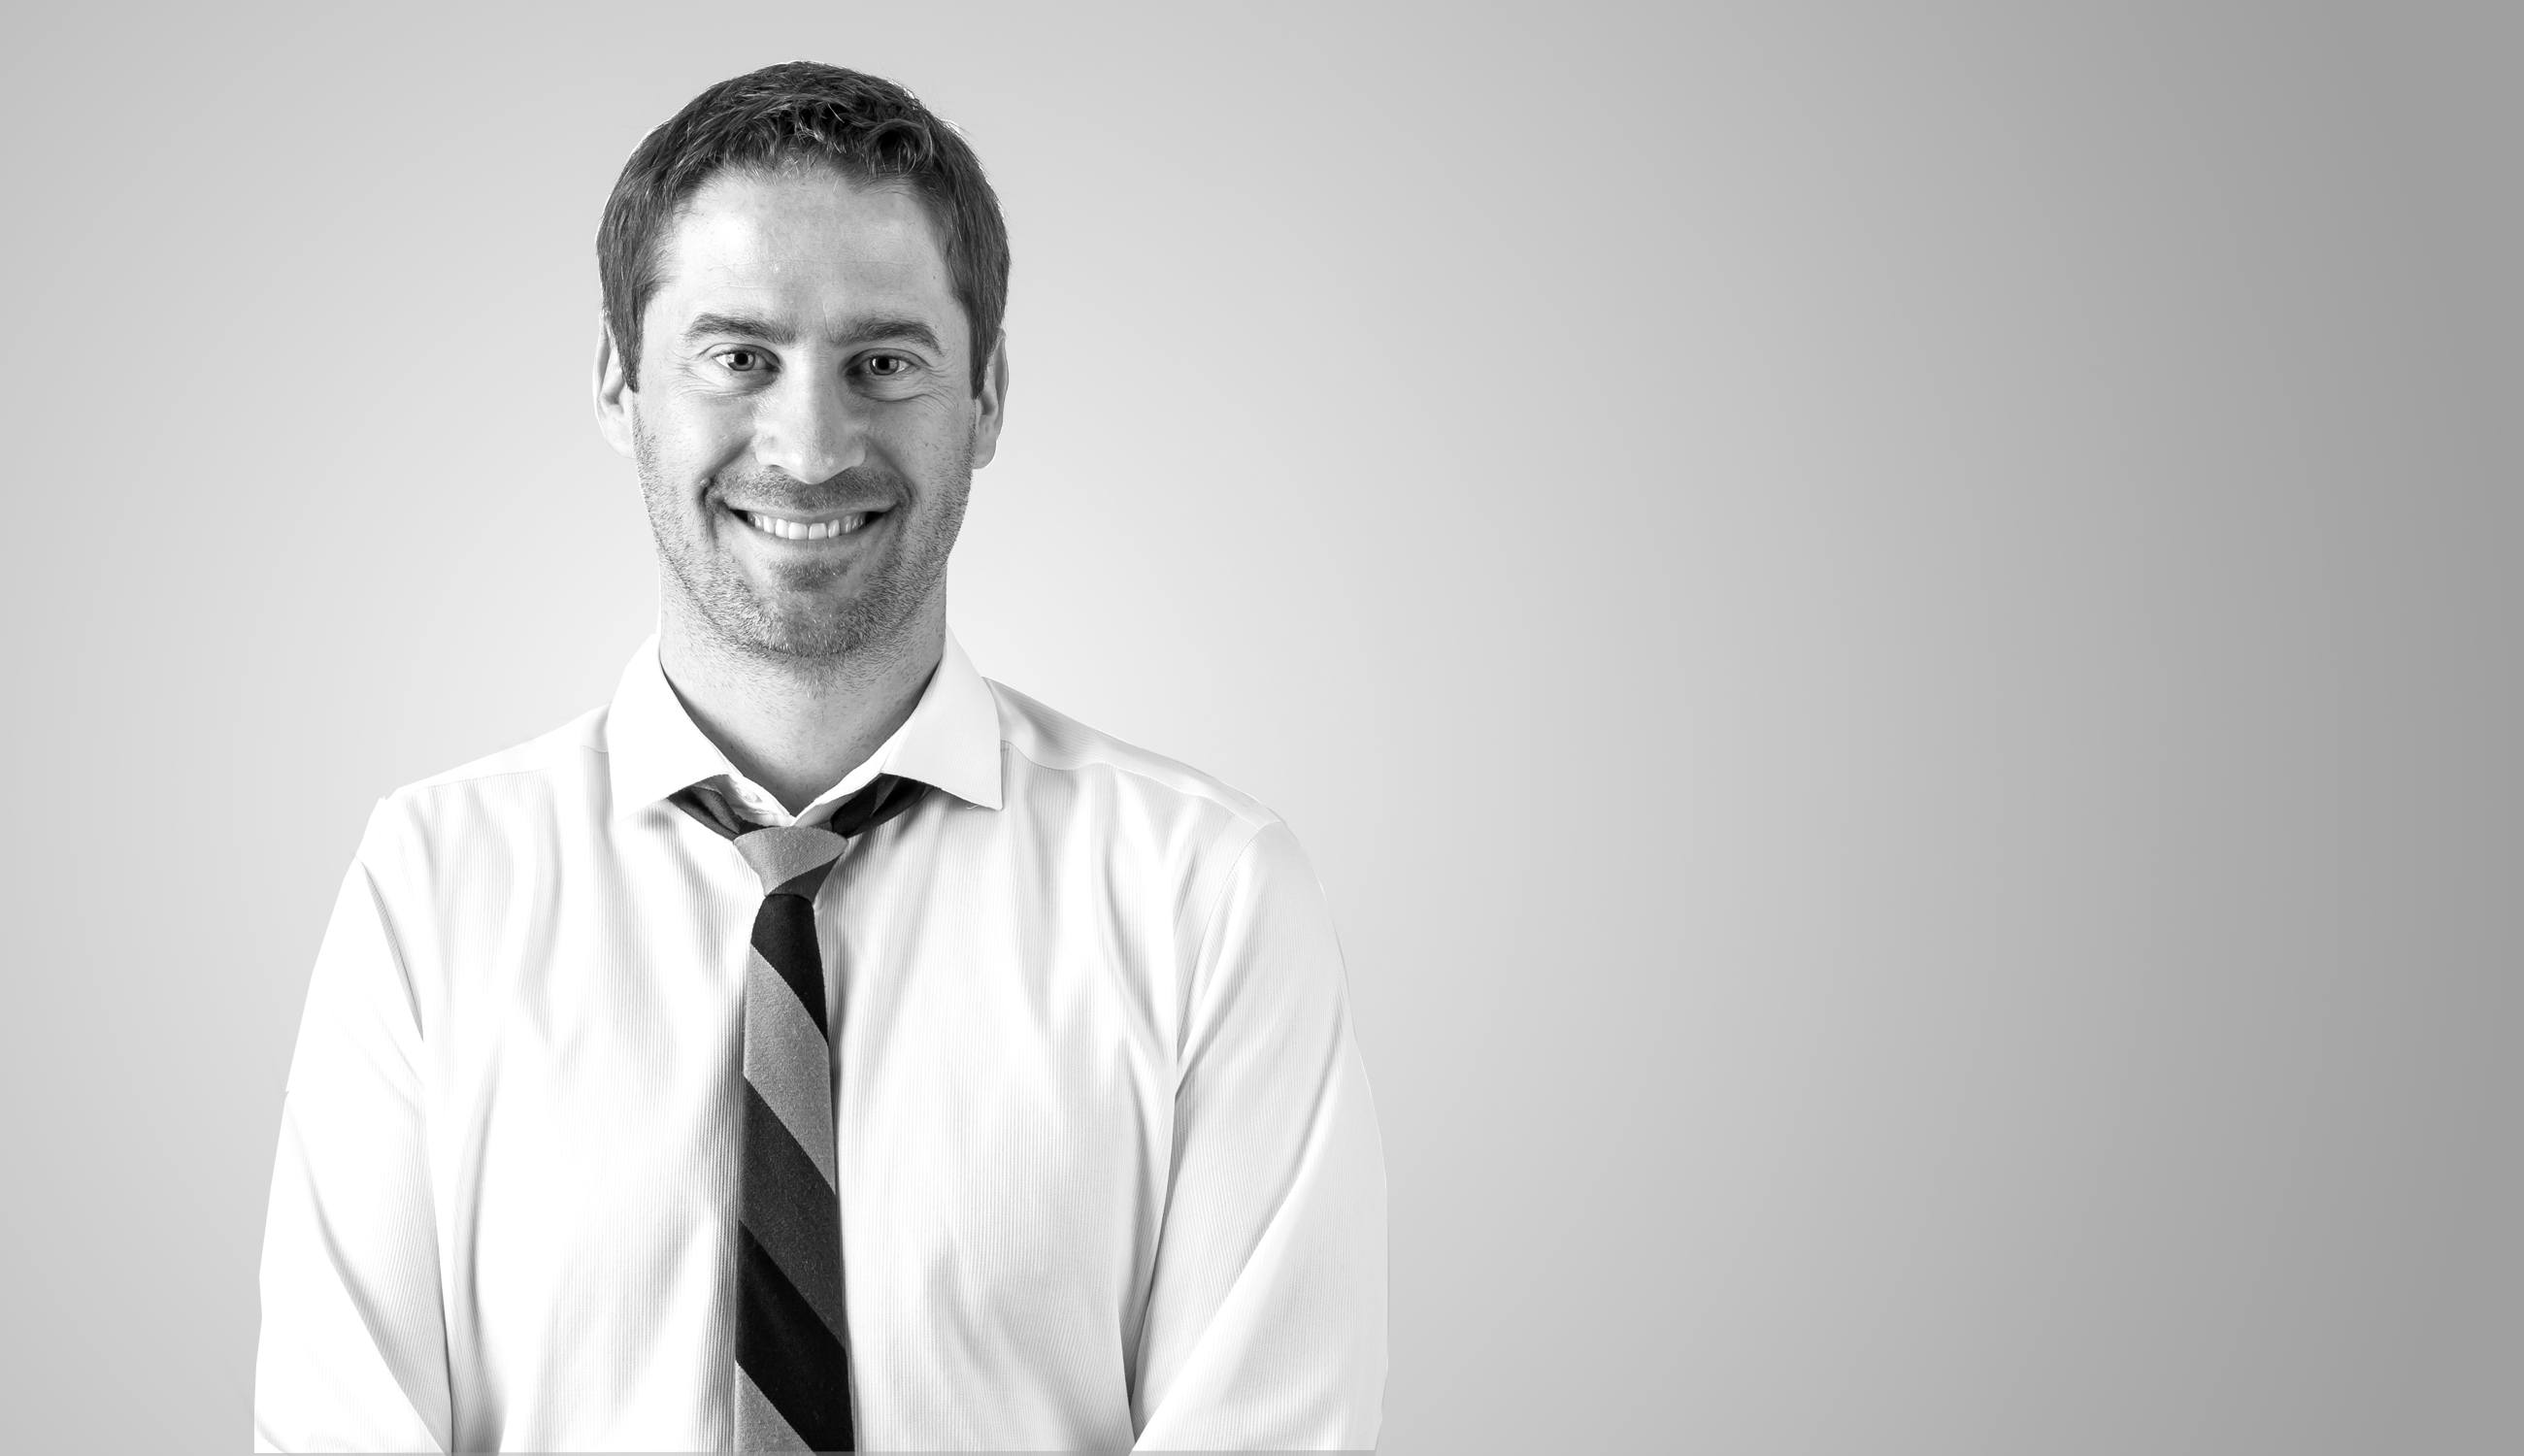
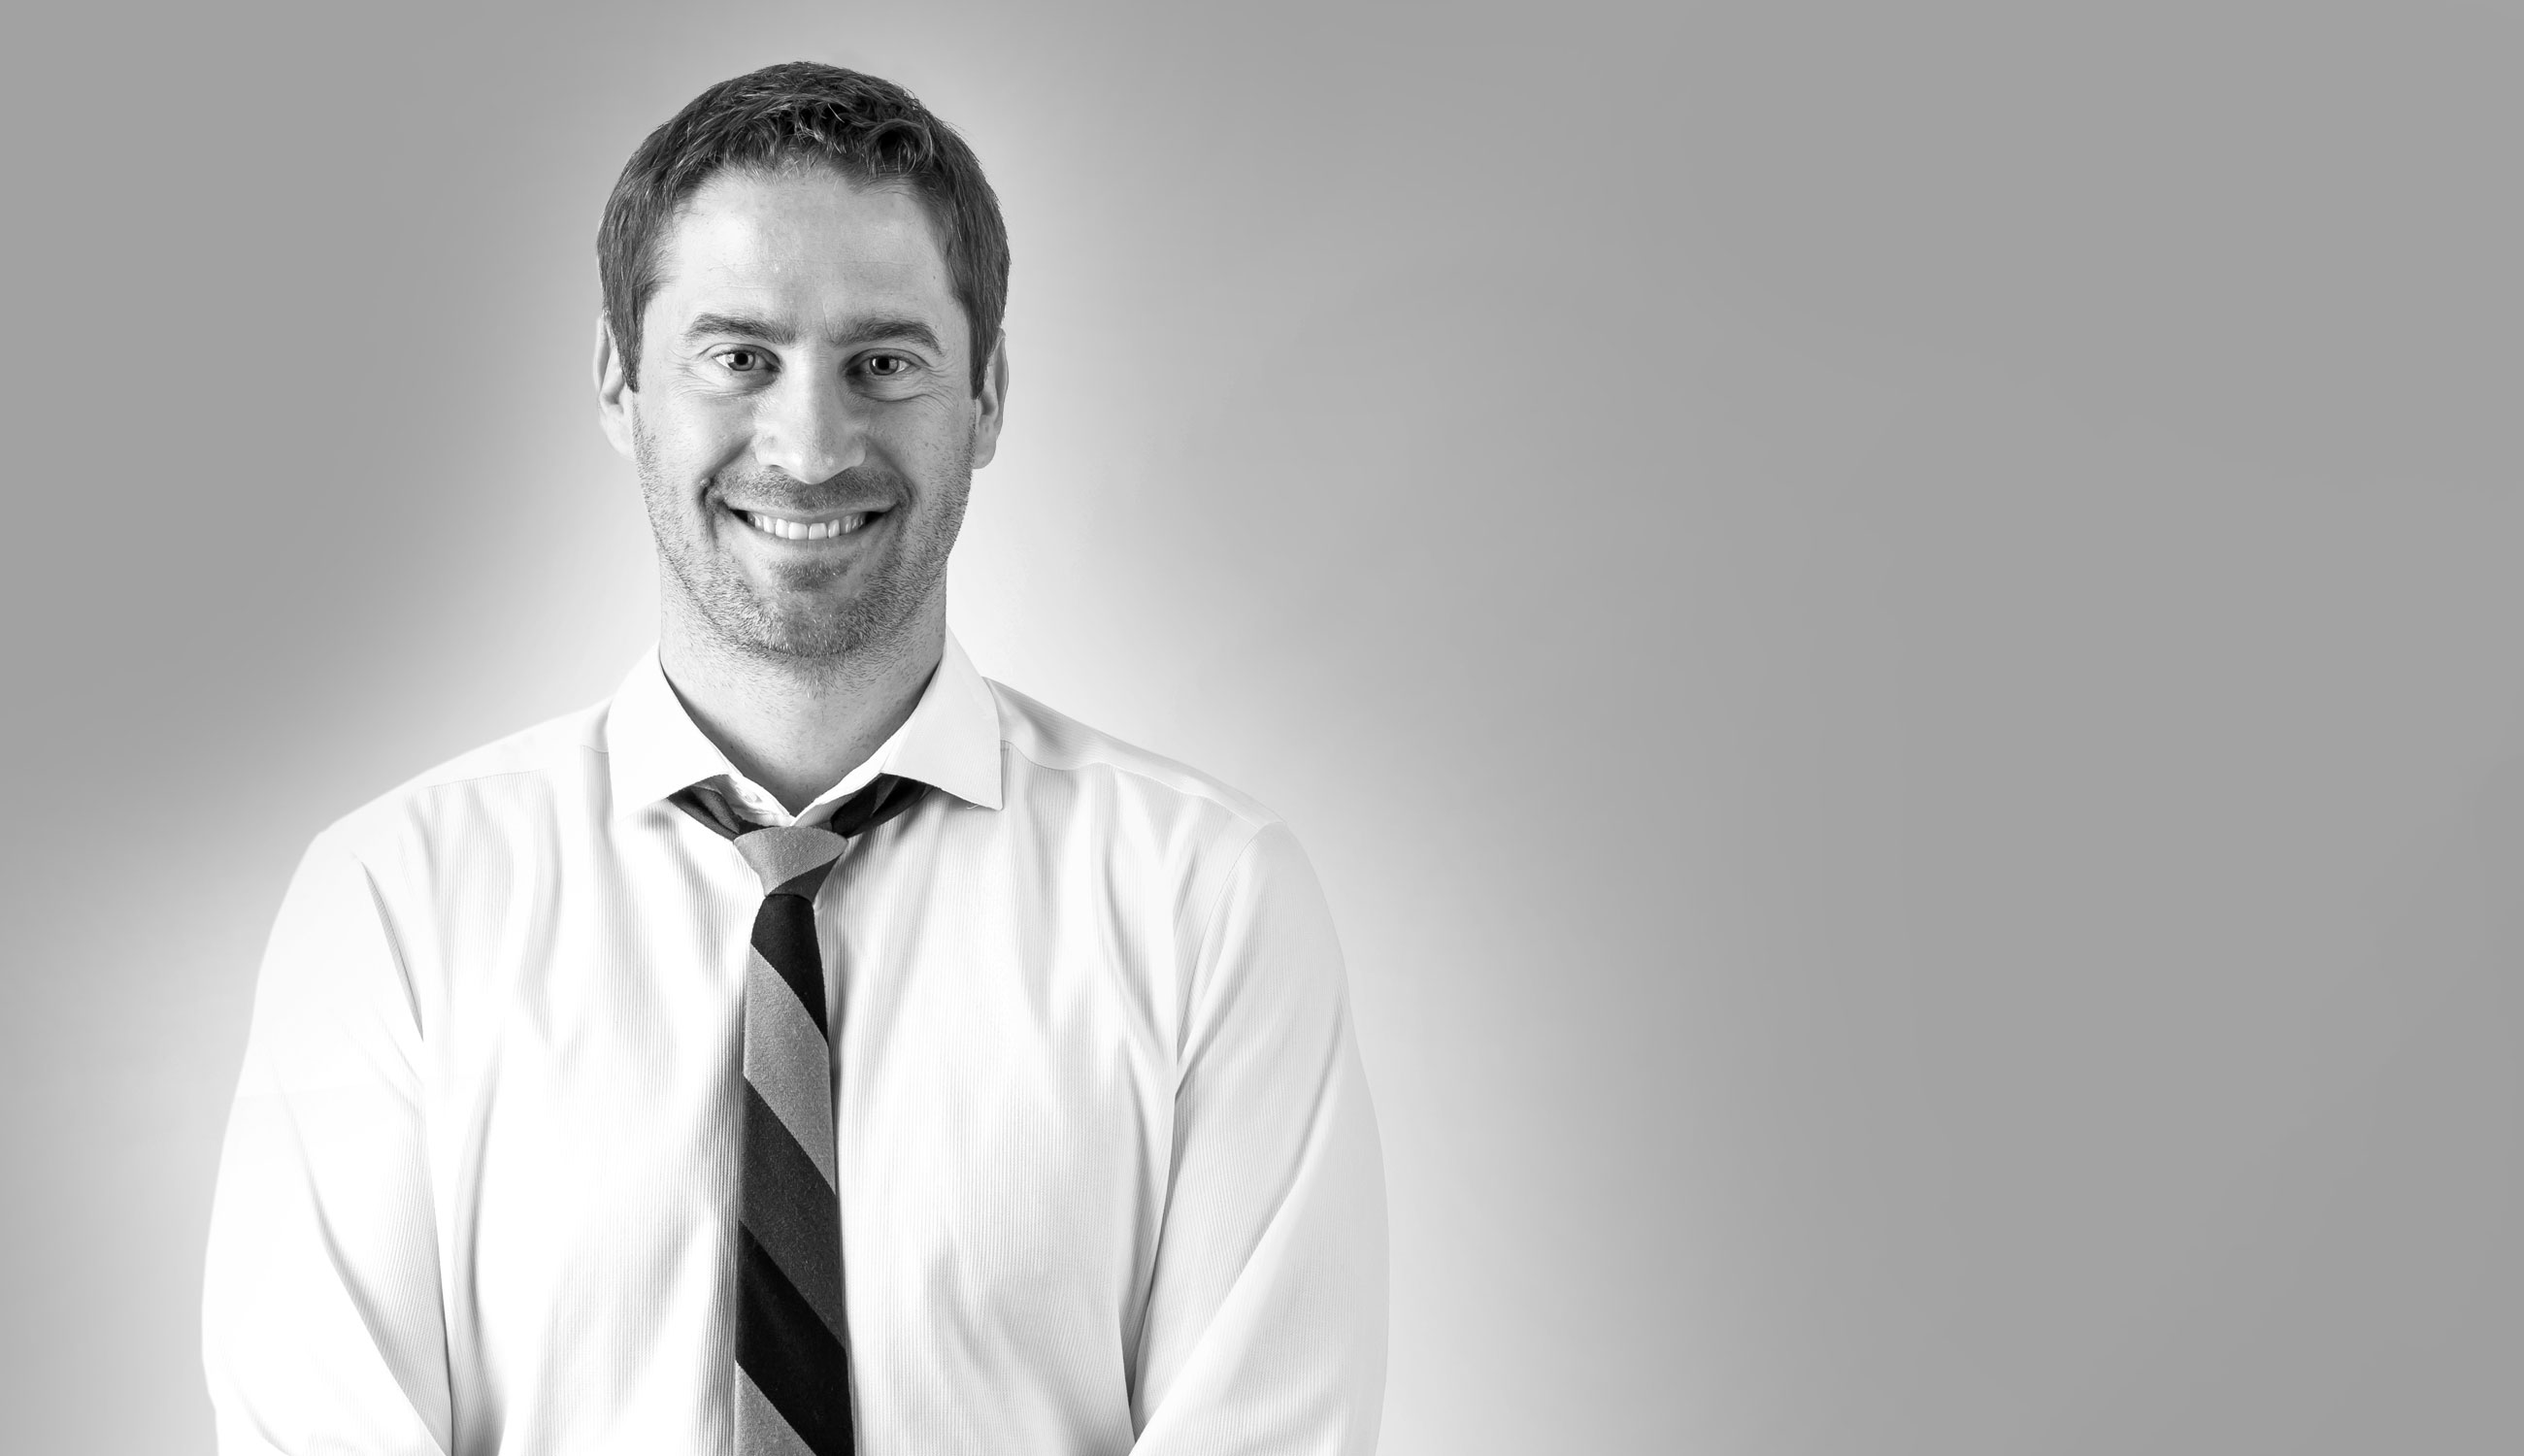
New photo, link to contact page in head and footer. Remove indent from questions list.

diff --git a/site/web/app/themes/immaterial/assets/styles/common/_global.scss b/site/web/app/themes/immaterial/assets/styles/common/_global.scss
@@ -9,9 +9,12 @@ body { scroll-behavior: smooth; }
 
 .questions {
   list-style: outside none none;
-  .list__item {
-    }
-  }
+  padding: 0;
+}
+
+.alignleft, .alignright {
+  width: 100%;
+}
 
 .data-listing {
   //background: unquote("rgb(#{$palette-grey-100})");
@@ -127,6 +130,18 @@ body { scroll-behavior: smooth; }
   .mdl-cell--8-col, .mdl-cell--8-col-tablet.mdl-cell--8-col-tablet {
       margin-left: 3rem;
       //width: calc(100% - 16px);
+  }
+
+  .alignleft {
+    margin-right: 1em;
+  }
+
+  .alignright {
+    margin-left: 1em;
+  }
+
+  .alignleft, .alignright {
+    width: auto;
   }
 
 }

diff --git a/site/web/app/themes/immaterial/assets/styles/layouts/_header.scss b/site/web/app/themes/immaterial/assets/styles/layouts/_header.scss
@@ -7,6 +7,16 @@
   font-family: $sans-serif-font;
 }
 
+.mdl-layout__header-row-sliver a {
+  color: unquote("rgb(#{$palette-grey-200})");
+  text-decoration: none;
+}
+
+.mdl-layout__header-row-sliver a:hover {
+  color: unquote("rgb(#{$palette-grey-800})");
+  text-decoration: underline;
+}
+
 .nav-icon {
   display: inline-block;
   width: 100px;

diff --git a/site/web/app/themes/immaterial/front-page.php b/site/web/app/themes/immaterial/front-page.php
@@ -25,7 +25,7 @@ use Roots\Sage\Assets;
   <div id="biography" class="content-grid mdl-grid mdl-grid--no-spacing mdl-color-text--alabaster-400 front-page__cover">
 
       <div>
-        <p>By 2016, after a decade in general civil law,  representing people who had suffered injury or death in nursing homes and assisted living facilities had become a <em>calling.</em> I have become experienced at identifying and litigating these special cases, working intimately with individuals and families to <em>protect our elders.</em> Life is just too short not to make every day count. Some people see law as a tedious, drudging inevitability. For me, <em>it’s an art.</em> Each case is like a block of rough marble. Together we look at it from all possible angles and carve out its innate beauty: a true story that speaks to the heart and makes sense in relation to the laws of our society. And <em>that</em> is persuasive.</p>
+        <p>By 2016, after a decade in general civil law, representing people who had suffered injury or death in nursing homes and assisted living facilities felt like a <em>calling.</em> I have become experienced at identifying and litigating these special cases, working intimately with individuals and families to <em>protect our elders.</em> Life is just too short not to make every day count. Some people see law as a tedious, drudging inevitability. For me, <em>it’s an art.</em> Each case is like a block of rough marble. Together we look at it from all possible angles and carve out its innate beauty: a true story that speaks to the heart and makes sense in relation to the laws of our society. And <em>that</em> is persuasive.</p>
       </div>
 
 

diff --git a/site/web/app/themes/immaterial/templates/header.php b/site/web/app/themes/immaterial/templates/header.php
@@ -6,11 +6,11 @@
         <path d="M6.62 10.79c1.44 2.83 3.76 5.14 6.59 6.59l2.2-2.2c.27-.27.67-.36 1.02-.24 1.12.37 2.33.57 3.57.57.55 0 1 .45 1 1V20c0 .55-.45 1-1 1-9.39 0-17-7.61-17-17 0-.55.45-1 1-1h3.5c.55 0 1 .45 1 1 0 1.25.2 2.45.57 3.57.11.35.03.74-.25 1.02l-2.2 2.2z"/>
     </svg>
     &nbsp; <span>850 932-8560</span> &nbsp;
-    <svg height="18" viewBox="0 0 24 24" width="18" xmlns="http://www.w3.org/2000/svg">
+    <a href="contact"><svg height="18" viewBox="0 0 24 24" width="18" xmlns="http://www.w3.org/2000/svg">
         <path d="M20 4H4c-1.1 0-1.99.9-1.99 2L2 18c0 1.1.9 2 2 2h16c1.1 0 2-.9 2-2V6c0-1.1-.9-2-2-2zm0 4l-8 5-8-5V6l8 5 8-5v2z"/>
         <path d="M0 0h24v24H0z" fill="none"/>
-    </svg>
-    &nbsp; <span>info@delapiedralawfirm.com</span>
+    </svg></a>
+    &nbsp; <a href="contact"><span>info@delapiedralawfirm.com</span></a>
 </div>
 <div  id="header_main">
   <div class="mdl-layout__header-row">

diff --git a/site/web/app/themes/immaterial/templates/footer.php b/site/web/app/themes/immaterial/templates/footer.php
@@ -39,7 +39,7 @@ use Roots\Sage\Extras;
             <path d="M0 0h24v24H0z" fill="none"/>
         </svg>
         <span property="fax">(850) 932-8129</span></span><br />
-        <span property="email">jack@delapiedralawfirm.com</span>
+        <a href="contact"><span property="email">jack@delapiedralawfirm.com</span></a>
       </div>
     </div>
 
